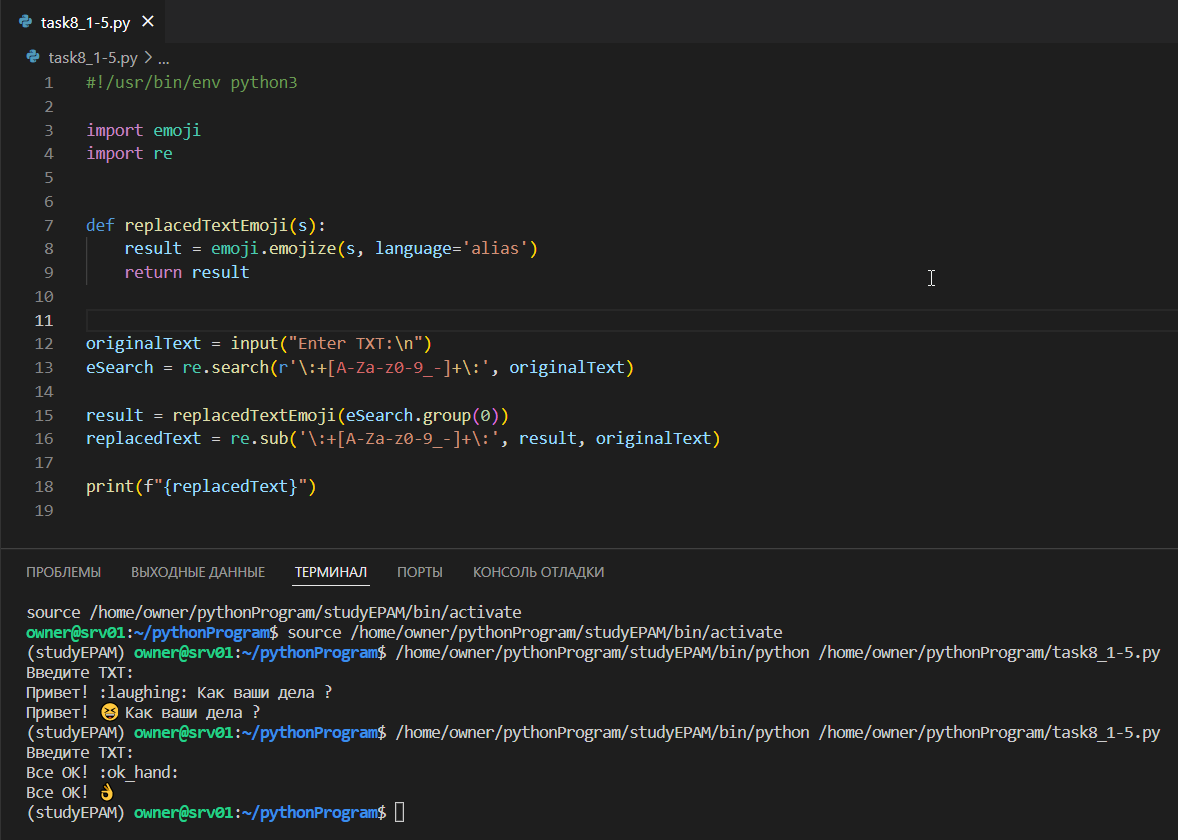
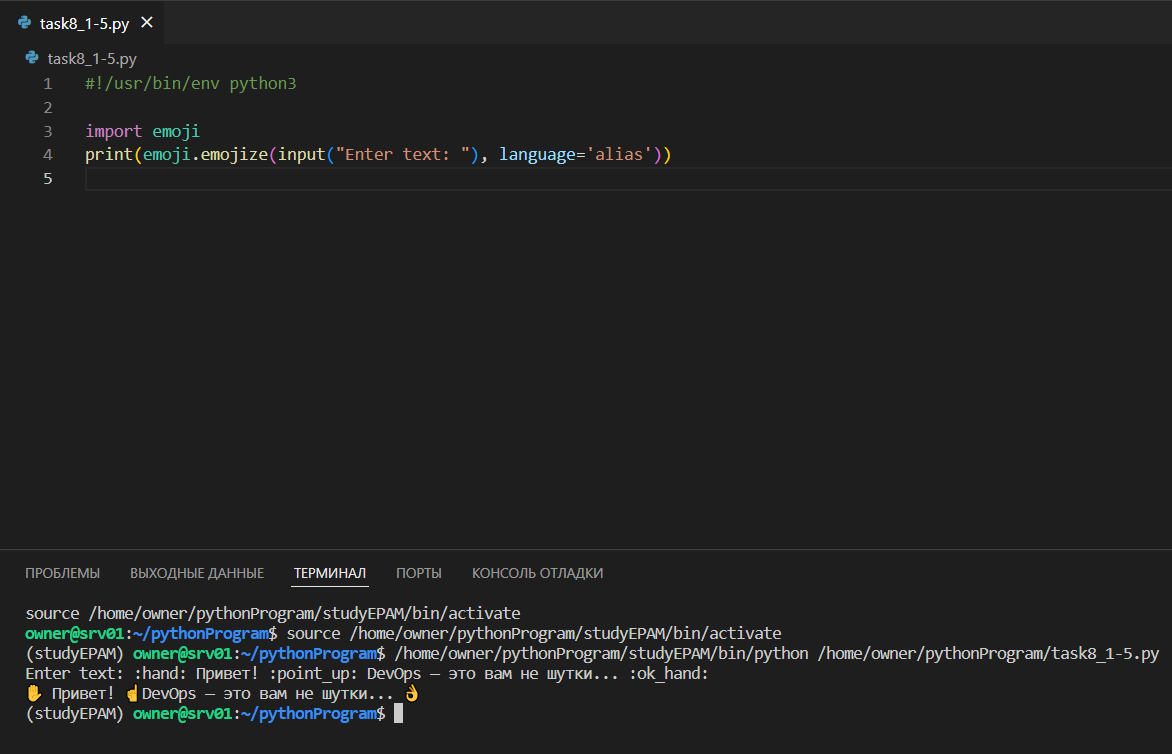
add module_8_task_8_1_part1_5

diff --git a/m8/task8.1/readme.md b/m8/task8.1/readme.md
@@ -129,21 +129,9 @@ with open(file_path, 'r') as open_file:
 #!/usr/bin/env python3
 
 import emoji
-import re
+print(emoji.emojize(input("Enter text: "), language='alias'))
 
-
-def replacedTextEmoji(s):
-    result = emoji.emojize(s, language='alias')
-    return result
-
-
-originalText = input("Enter TXT:\n")
-eSearch = re.search(r'\:+[A-Za-z0-9_-]+\:', originalText)
-
-result = replacedTextEmoji(eSearch.group(0))
-replacedText = re.sub('\:+[A-Za-z0-9_-]+\:', result, originalText)
-
-print(f"{replacedText}")
+# Enter text: :hand: Привет! :point_up: DevOps — это вам не шутки... :ok_hand:
 ```
 
 ![Image alt](img/module_8_task_8_1_part1_5-1.png)
